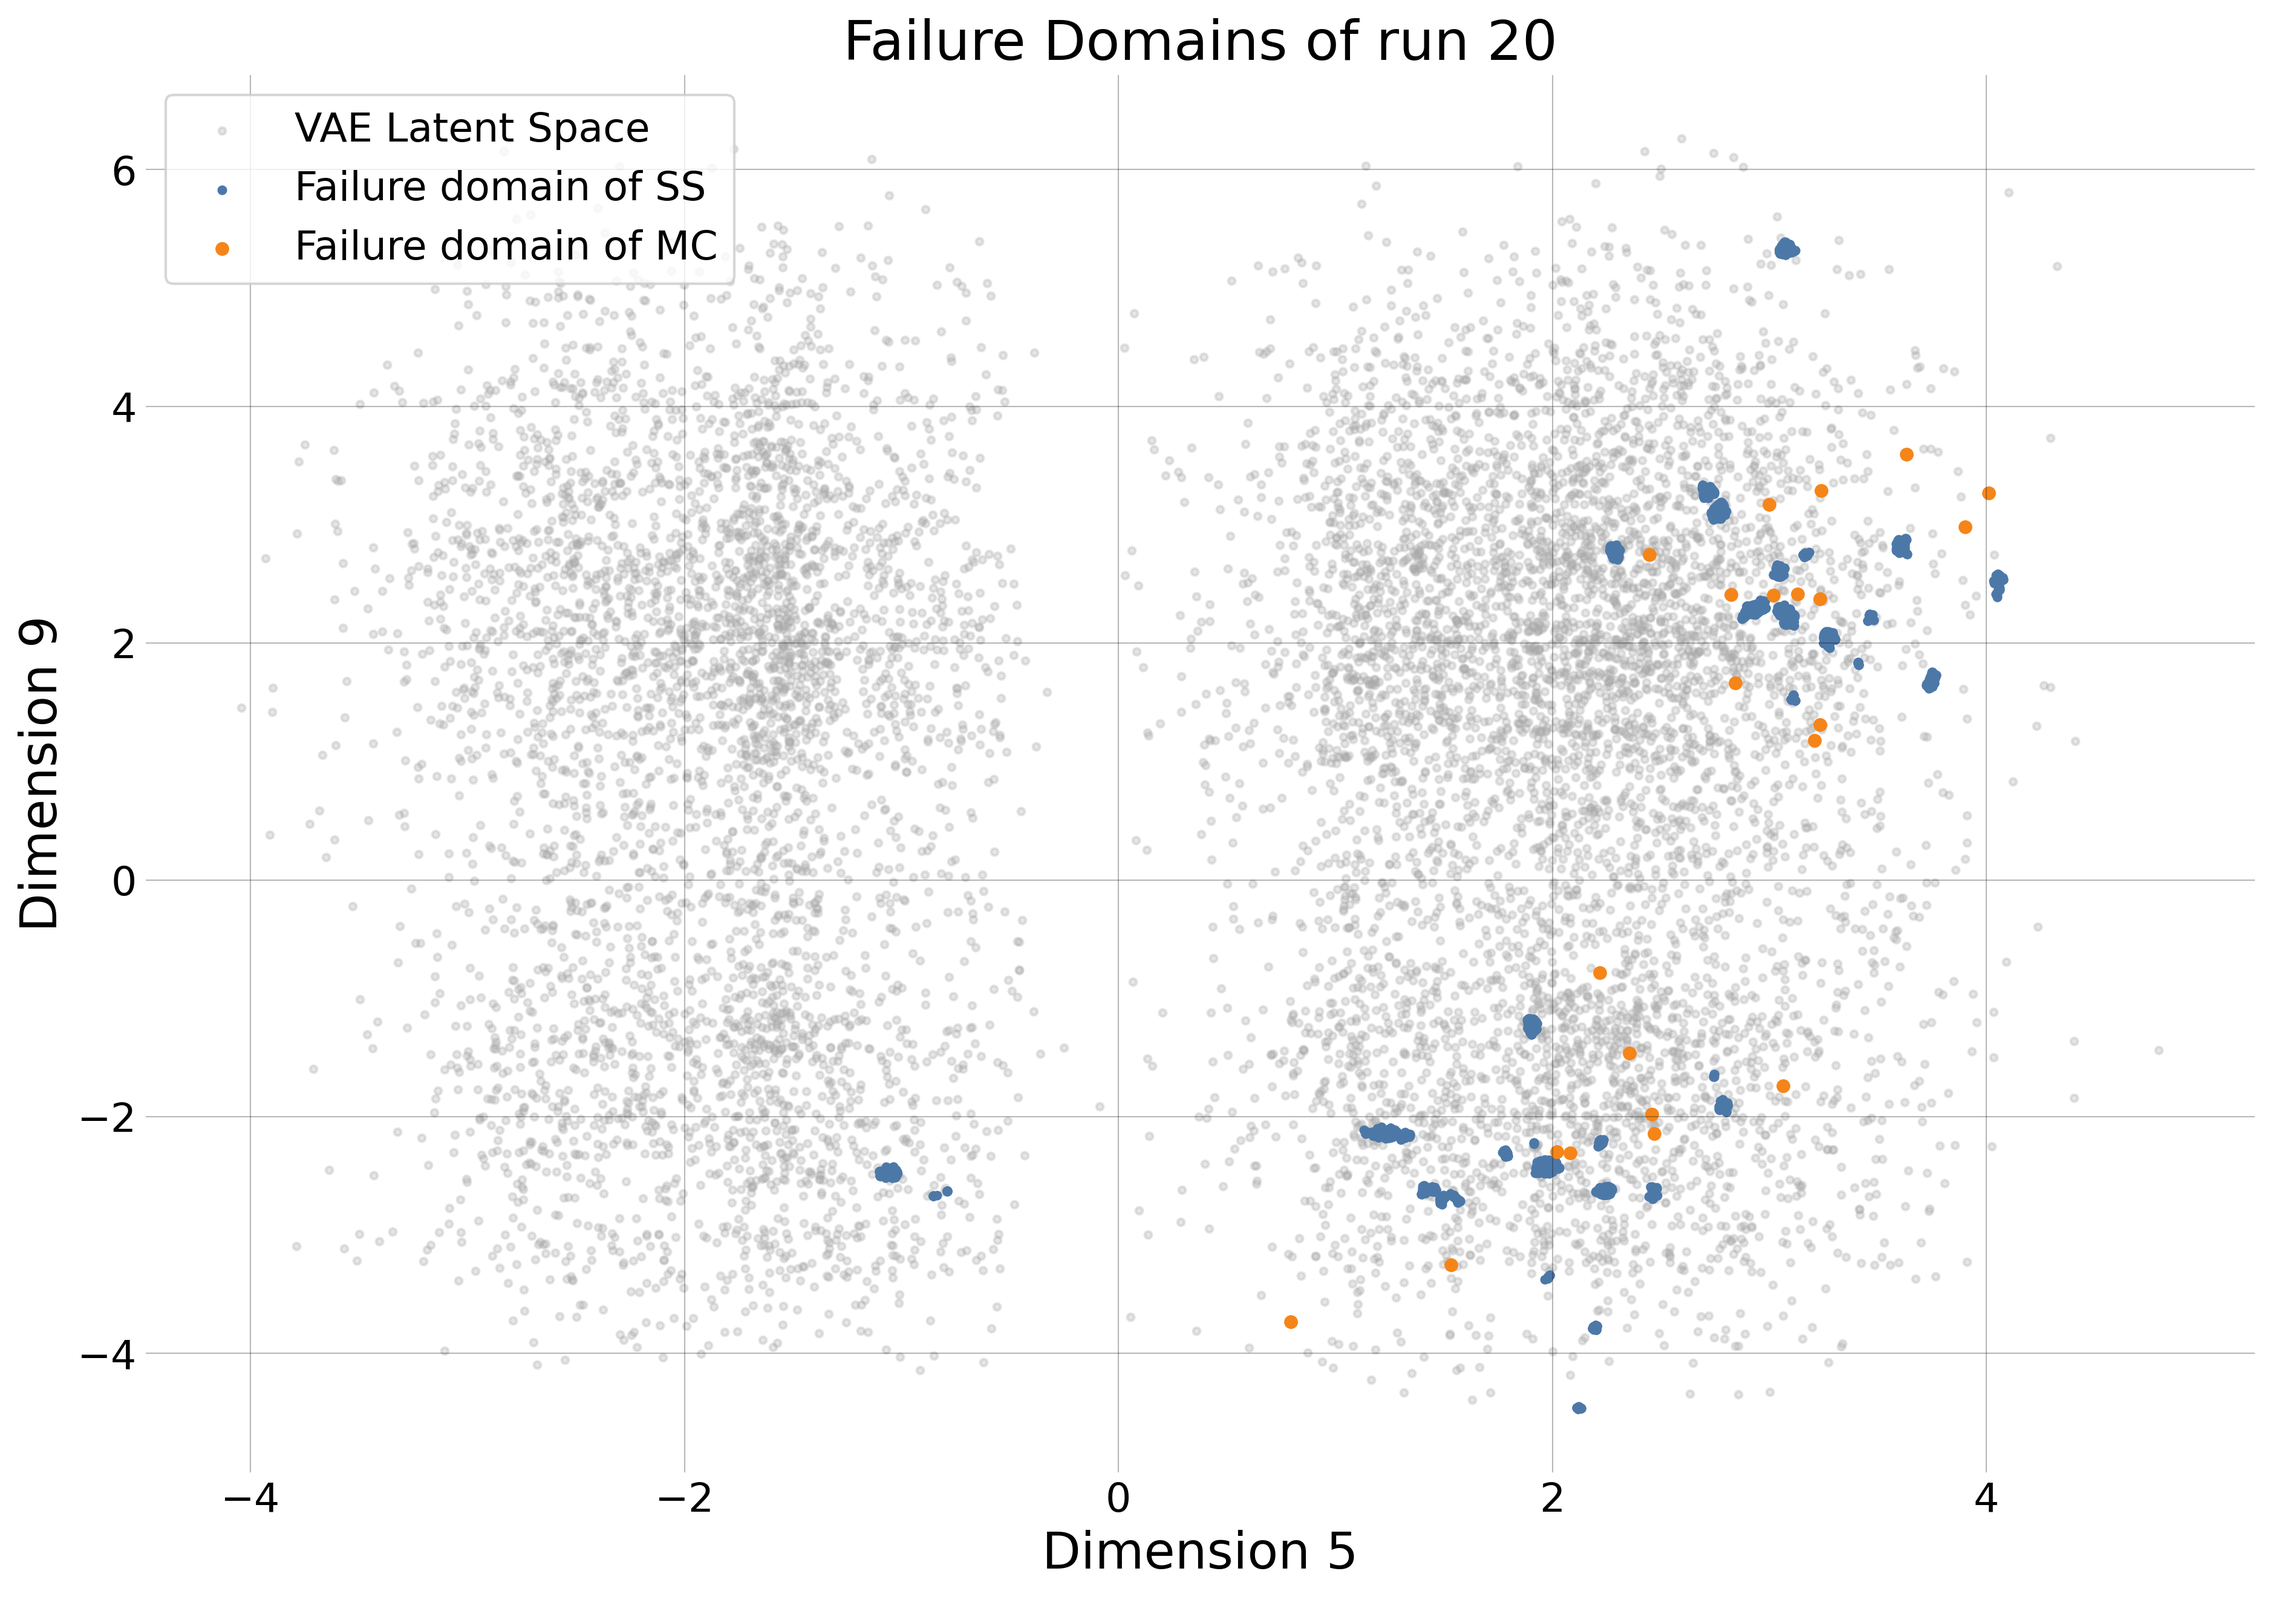
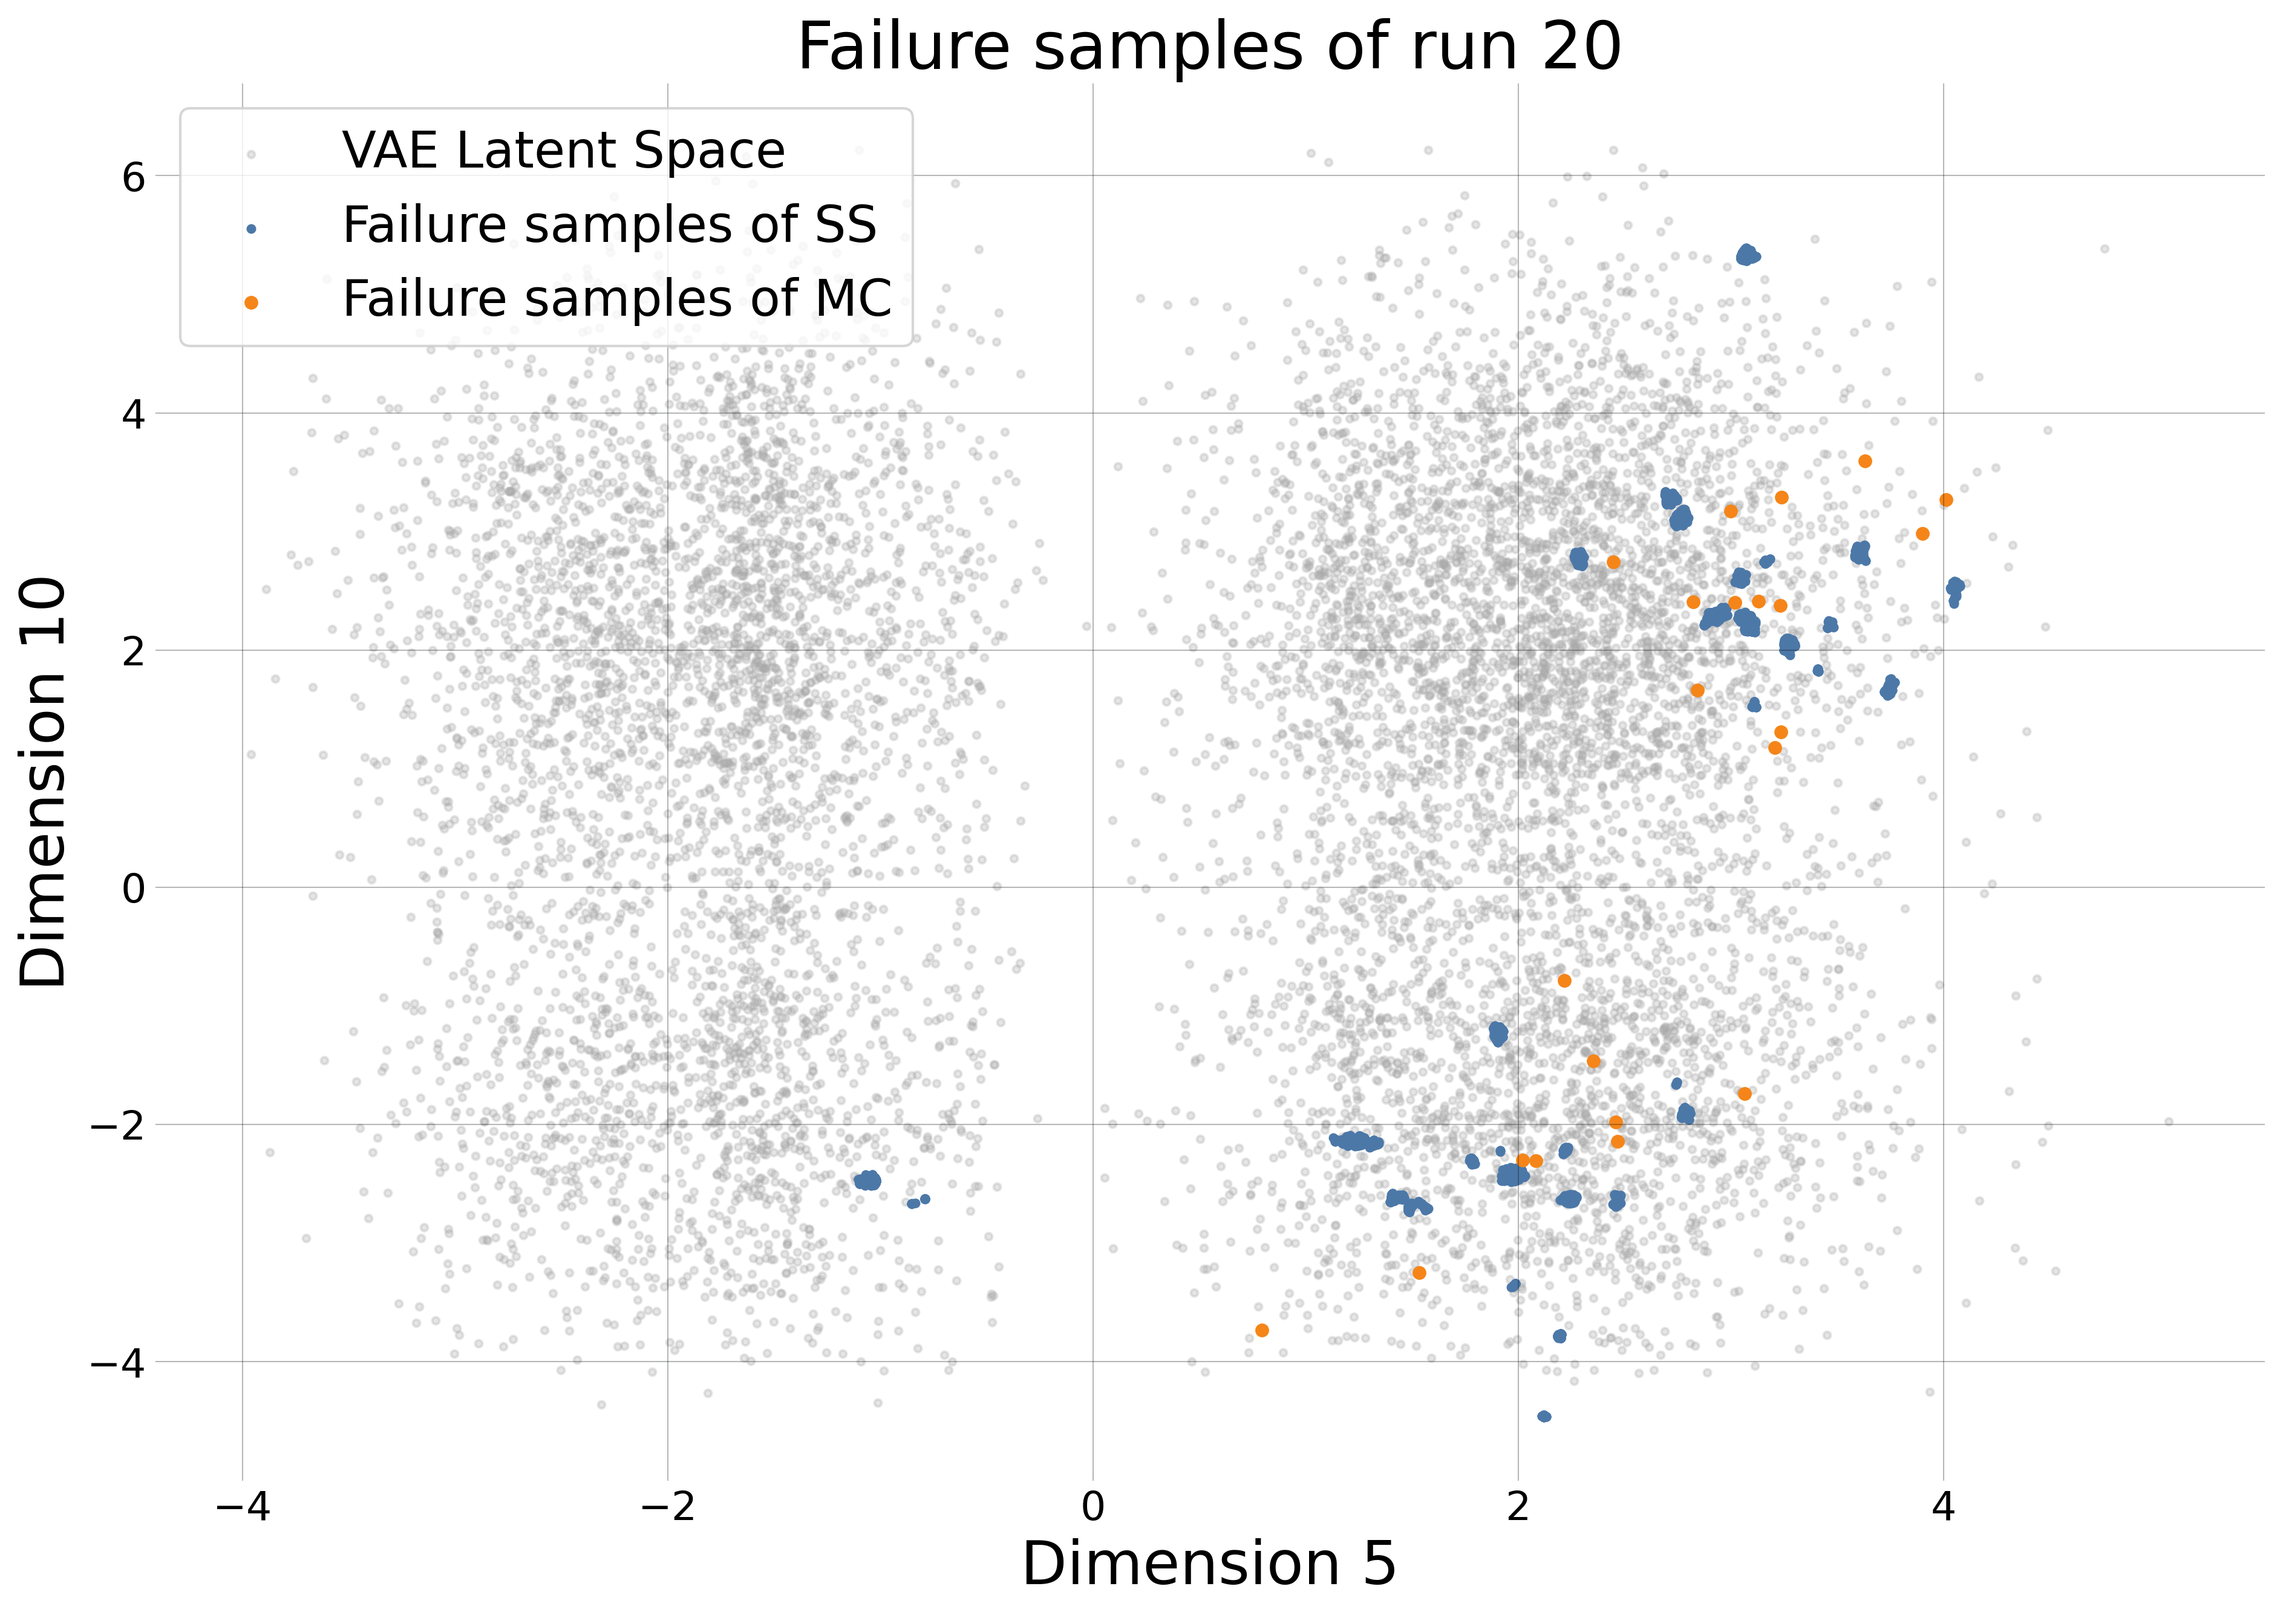
figure failure domain

diff --git a/figures/failure_domain.py b/figures/failure_domain.py
@@ -72,16 +72,16 @@ Z_mc_emb = failure_mc[:,[4,9]]
 with plt.style.context("traffic"):
     fig, ax = plt.subplots(1, figsize=(15, 10))
     ax.scatter(Z_emb[:, 0], Z_emb[:, 1], s=8, c ='#aaaaaa', alpha = 0.3, label = "VAE Latent Space")
-    ax.scatter(Z_ss_emb[:, 0], Z_ss_emb[:, 1], s=8, c="#4c78a8", label = "Failure domain of SS")
-    ax.scatter(Z_mc_emb[:, 0], Z_mc_emb[:, 1], s=20, c="#f58518", label = "Failure domain of MC")
+    ax.scatter(Z_ss_emb[:, 0], Z_ss_emb[:, 1], s=8, c="#4c78a8", label = "Failure samples of SS")
+    ax.scatter(Z_mc_emb[:, 0], Z_mc_emb[:, 1], s=20, c="#f58518", label = "Failure samples of MC")
     
-    ax.set_xlabel('Dimension 5', fontsize=20)
-    ax.set_ylabel('Dimension 9', fontsize = 20)
+    ax.set_xlabel('Dimension 5', fontsize=24)
+    ax.set_ylabel('Dimension 10', fontsize = 24)
     ax.tick_params(axis='both', which='major', labelsize=16)
     
-    ax.title.set_text("Failure Domains of run "+str(j))
-    ax.title.set_fontsize(22)
-    ax.legend(loc='upper left', fontsize=16)
+    ax.title.set_text("Failure samples of run "+str(j))
+    ax.title.set_fontsize(26)
+    ax.legend(loc='upper left', fontsize=20)
 
     plt.show()
 
